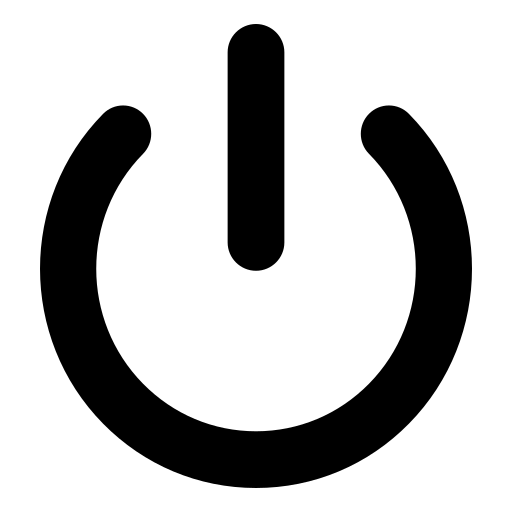
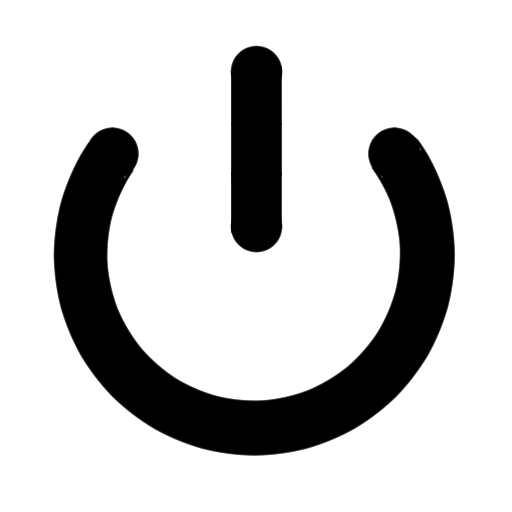
로고 추가 및 About 기능 추가

Changed region(s): [[0.0625, 0.1875, 0.9375, 0.9688], [0.4375, 0.0312, 0.5625, 0.5312], [0.2188, 0.3438, 0.25, 0.4062]]

diff --git a/src/pages/Dashboard.jsx b/src/pages/Dashboard.jsx
@@ -1,6 +1,8 @@
 import { useEffect, useState } from "react";
 import Card from "../components/Card";
 import Chart from "../components/Chart";
+import Header from "../components/Header"; // Header 추가
+import Footer from "../components/Footer"; // Footer 추가
 
 function Dashboard() {
   const [sensorData, setSensorData] = useState({
@@ -14,6 +16,7 @@ function Dashboard() {
 
   const fetchSensorData = async () => {
     try {
+      // 서버 주소는 실제 운영 환경에 맞게 수정 필요 (예: https://...ngrok-free.dev/data)
       const response = await fetch("/data");
 
       if (!response.ok) {
@@ -68,56 +71,70 @@ function Dashboard() {
   ];
 
   return (
-    <div className="flex-grow flex flex-col items-center pb-[100px] relative min-h-full">
-      <div
-        className="
-        absolute 
-        top-[90px]
-        left-[25px]
-        right-[25px]
-        bottom-0
-        bg-[color:var(--color-bgs)] 
-        rounded-t-[40px] 
-        -z-10
-      "
-      ></div>
+    // 1. 전체 페이지 레이아웃: 헤더-본문-푸터 순서로 배치
+    <div className="flex flex-col min-h-screen">
+      
+      {/* 상단 헤더 */}
+      <Header />
 
-      <div
-        className="
-        grid 
-        gap-6 
-        mt-[115px] 
-        w-full 
-        max-w-[1200px] 
-        px-[50px] 
-        justify-center
-        grid-cols-1 sm:grid-cols-2 lg:grid-cols-4
-        z-10
-      "
-      >
-        {cards.map((card, i) => (
-          <Card
-            key={i}
-            title={card.title}
-            value={card.value}
-            unit={card.unit}
-          />
-        ))}
+      {/* 2. 본문 컨테이너: flex-grow를 주어 푸터를 하단으로 밀어냄 */}
+      <main className="flex-grow flex flex-col items-center pb-[100px] relative w-full">
+        
+        {/* 대시보드 특유의 배경 디자인 (파란 배경 등) */}
+        <div className="
+          absolute 
+          top-[90px]
+          left-[25px]
+          right-[25px]
+          bottom-0
+          bg-[color:var(--color-bgs)] 
+          rounded-t-[40px] 
+          -z-10
+        "></div>
 
+        {/* 카드 및 차트 그리드 영역 */}
         <div
           className="
-            w-full
-            bg-[var(--color-bg)]
-            rounded-2xl shadow-xl 
-            p-6
-            h-[600px]
-            flex items-center justify-center
+          grid 
+          gap-6 
+          mt-[115px] 
+          w-full 
+          max-w-[1200px] 
+          px-[50px] 
+          justify-center
+          grid-cols-1 sm:grid-cols-2 lg:grid-cols-4
+          z-10
           "
-          style={{ gridColumn: "1 / -1" }}
         >
-          <Chart />
+          {cards.map((card, i) => (
+            <Card
+              key={i}
+              title={card.title}
+              value={card.value}
+              unit={card.unit}
+            />
+          ))}
+
+          {/* 실시간 차트 영역 */}
+          <div
+            className="
+              w-full
+              bg-[var(--color-bg)]
+              rounded-2xl shadow-xl 
+              p-6
+              h-[600px]
+              flex items-center justify-center
+            "
+            style={{ gridColumn: "1 / -1" }}
+          >
+            <Chart />
+          </div>
         </div>
-      </div>
+      </main>
+
+      {/* 하단 푸터 */}
+      <Footer />
+      
     </div>
   );
 }

diff --git a/src/components/Header.jsx b/src/components/Header.jsx
@@ -1,10 +1,81 @@
+import React, { useState } from 'react';
+import logoImg from '../assets/logo.png'; 
+
 function Header() {
+  const [isHovered, setIsHovered] = useState(false);
+
   return (
-    <div className="flex justify-between items-center px-[40px] py-[20px]">
-      <div className="text-[32px]">Climo</div>
-      <div className="text-[32px] text-[var(--color-text-about)]">About</div>
+    <div className="flex justify-between items-center px-[40px] py-[20px] relative z-[100]">
+      <div className="flex items-center gap-1">
+        <img 
+          src={logoImg} 
+          alt="Climo Logo" 
+          className="h-[40px] w-auto object-contain" 
+        />
+        <div className="text-[32px] tracking-tight">Climo</div>
+      </div>
+
+      {/* About 섹션 */}
+      <div 
+        className="relative"
+        onMouseEnter={() => setIsHovered(true)}
+        onMouseLeave={() => setIsHovered(false)}
+      >
+        <div className="text-[32px] text-[var(--color-text-about)] cursor-help opacity-80 hover:opacity-100 transition-opacity">
+          About
+        </div>
+
+        {/* 설명 사각형 (200px * 300px) */}
+        {isHovered && (
+          <div className="
+            absolute top-0 right-[110%] 
+            w-[200px] h-[300px] 
+            bg-white border border-gray-100 shadow-2xl rounded-2xl p-6
+            text-gray-800 z-[110]
+            animate-in fade-in slide-in-from-right-5 duration-200
+            flex flex-col
+          ">
+            {/* 상단 설명 */}
+            <div className="flex-grow">
+              <h4 className="text-blue-600 font-bold text-lg mb-2">Service</h4>
+              <p className="text-[13px] leading-relaxed text-gray-600">
+                Climo는 라즈베리파이를 통해 실시간으로 환경 정보를 알려드리고 있습니다!
+              </p>
+            </div>
+
+            {/* 구분선 */}
+            <div className="h-[1px] bg-gray-100 my-4"></div>
+
+            {/* 참여자 정보 */}
+            <div>
+              <h4 className="text-gray-400 text-[11px] font-bold uppercase mb-3 tracking-wider">TEAM Memders</h4>
+              <ul className="text-[12px] space-y-2">
+                <li className="flex justify-between">
+                  <span className="font-semibold">이지원</span>
+                  <span className="text-blue-500 font-medium text-[11px]">Lead & DB</span>
+                </li>
+                <li className="flex justify-between">
+                  <span className="font-semibold">김나영</span>
+                  <span className="text-gray-500 text-[11px]">IoT Sensor</span>
+                </li>
+                <li className="flex justify-between">
+                  <span className="font-semibold">김민경</span>
+                  <span className="text-gray-500 text-[11px]">Frontend</span>
+                </li>
+                <li className="flex justify-between">
+                  <span className="font-semibold">김홍준</span>
+                  <span className="text-gray-500 text-[11px]">Flask Server</span>
+                </li>
+              </ul>
+            </div>
+
+            {/* 말풍선 꼬리 */}
+            <div className="absolute right-[-6px] top-4 w-3 h-3 bg-white rotate-45 border-t border-r border-gray-100"></div>
+          </div>
+        )}
+      </div>
     </div>
-  )
+  );
 }
 
-export default Header
+export default Header;

diff --git a/index.html b/index.html
@@ -3,7 +3,7 @@
 
 <head>
   <meta charset="UTF-8" />
-  <link rel="icon" type="image/svg+xml" href="/favicon.svg" />
+  <link rel="icon" type="image/svg+xml" href="/icon.png" />
   <meta name="viewport" content="width=device-width, initial-scale=1.0" />
   <title>climo</title>
   <link rel="preconnect" href="https://fonts.googleapis.com">

diff --git a/src/App.jsx b/src/App.jsx
@@ -1,5 +1,4 @@
 import { BrowserRouter, Routes, Route } from "react-router-dom";
-
 import Start from "./pages/Start";
 import Dashboard from "./pages/Dashboard";
 import { ToastProvider } from "./components/ToastProvider";
